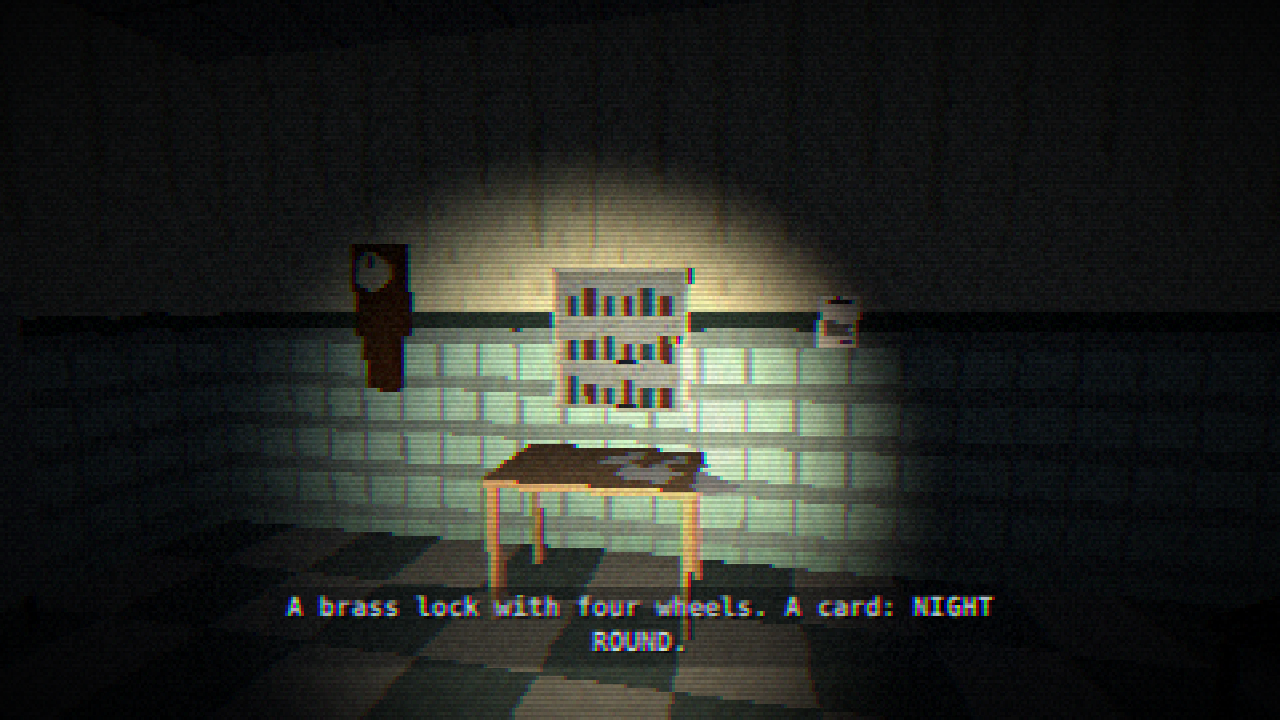
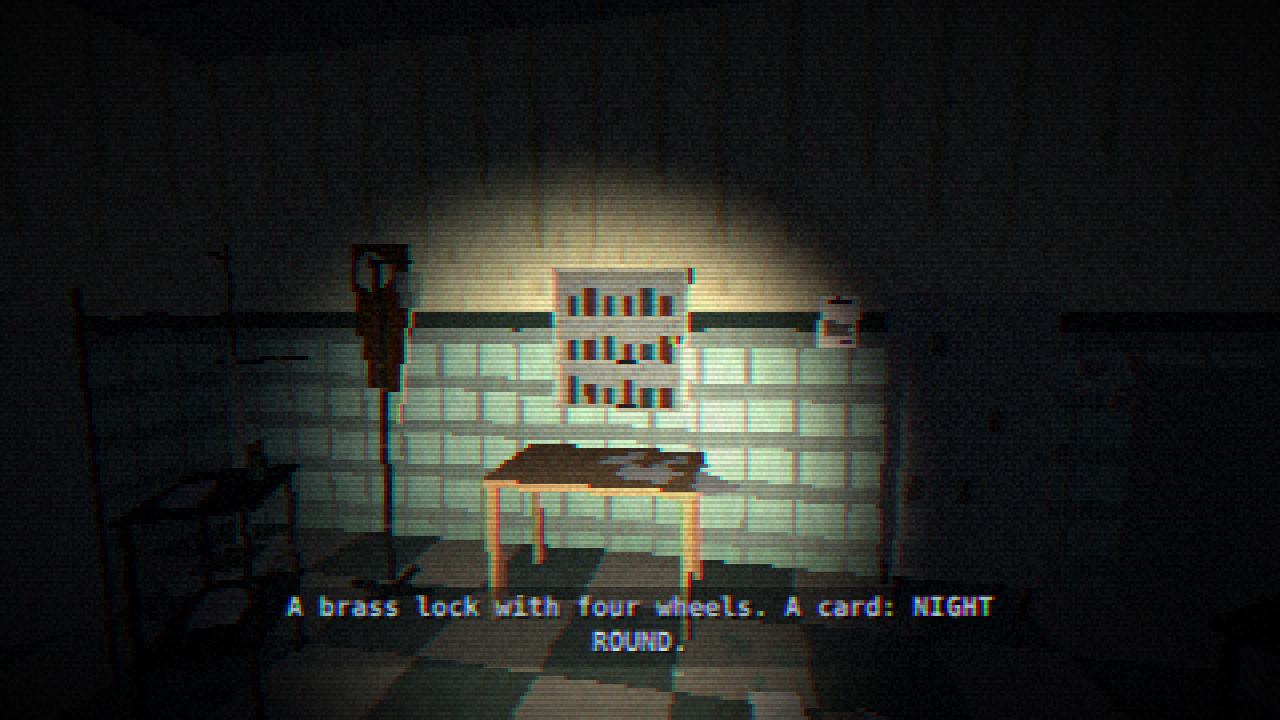
0.2.64: 0.4 room stills filled with clutter and wear; fuse board and television picks recorded
Mockup-only: new props dripStand and stretcher.

Claude-Session: https://claude.ai/code/session_01Kt2ajWcwzg7QhP3mDk3ZUu

diff --git a/src/mockups/wardRoomStills.js b/src/mockups/wardRoomStills.js
@@ -32,6 +32,11 @@ export const WARD_ROOM_STILLS = {
         ['chair', 12, 1.8, 0], ['pigeonholes', 11.3, 1, 0], ['mapBoard', 13.6, 1, 0], ['wallClock', 9.4, 1, 0],
         ['recordsCabinet', 8.25, 2.2, 90], ['recordsCabinet', 8.25, 2.9, 90], ['bench', 8.3, 4.6, 90, { length: 2.2 }],
         ['barredWindow', 16, 2.4, -90], ['barredWindow', 16, 4.4, -90], ['papers', 12.6, 3.4, 0],
+        // left behind
+        ['typewriter', 12.3, 2.55, 185, {}, 0.79], ['papers', 11.2, 3.5, 40, { count: 7 }], ['papers', 13.3, 2.9, 110, { count: 5 }], ['papers', 10.2, 2.4, 0, { count: 6 }],
+        ['chair', 11.3, 3.7, 70, { toppled: true }], ['ledger', 12.9, 3.6, 60], ['ledger', 10.9, 2.9, 200, { color: '#2a3a4a' }],
+        ['crucifix', 12.5, 1, 0, { height: 2.3 }], ['noticeBoard', 10, 1, 0], ['peeledPaper', 14.9, 1, 0, { seed: 2 }], ['peeledPaper', 8.9, 1, 0, { seed: 7 }],
+        ['hatStand', 15.5, 1.5, 0], ['umbrellaStand', 15.6, 5.5, 0], ['stretcher', 14.6, 4.2, 20], ['sheetPile', 13.6, 4.9, 0], ['rug', 12, 2.6, 0, { width: 2.6, depth: 1.8 }],
       ]);
       eye(world, [11.1, 4.5], [12.2, 1.4], 1.6, 1.2);
     },
@@ -44,6 +49,9 @@ export const WARD_ROOM_STILLS = {
       furnish(world, [
         ['fuseBoard', 3, 7, 0, { fuses: [3] }], ['hangingBulb', 3, 8.6, 0, { ceiling: 3.4 }],
         ['bucketMop', 1.5, 7.5, 30], ['linenShelves', 4.98, 8.4, -90, { length: 1.4, seed: 4 }], ['radiator', 1.02, 9, 90], ['puddle', 2.4, 9.3, 0],
+        ['handprints', 1.9, 7, 0], ['wallScratches', 4.2, 7, 0, { seed: 6 }], ['peeledPaper', 1.02, 8.2, 90, { seed: 3 }],
+        ['papers', 3.4, 8.2, 30, { count: 5 }], ['chair', 4.2, 8.9, 250, { toppled: true }], ['laundryBasket', 1.6, 8.6, 0], ['fallenTiles', 3.9, 7.4, 0, { seed: 2 }],
+        ['tileDecay', 4.1, 7, 0, { width: 1.0, height: 0.8, y: 0.7, seed: 8 }], ['trolley', 2.1, 7.6, 100],
       ]);
       eye(world, [3.3, 9.6], [3, 7], 1.6, 1.45);
     },
@@ -57,6 +65,10 @@ export const WARD_ROOM_STILLS = {
         ['bathtub', 2.3, 13.5, 0], ['bathtub', 4.9, 13.5, 0], ['floorDrain', 3.7, 15, 0], ['duckboard', 3.6, 14.3, 0],
         ['towelRail', 1.02, 15, 90], ['sink', 6.98, 14.2, -90], ['mirror', 6.98, 14.2, -90], ['puddle', 3.2, 15.3, 0, { width: 1.3, depth: 0.8 }],
         ['hangingBulb', 3.7, 14.8, 0, { ceiling: 3.4 }], ['bucketMop', 6.5, 16.5, 200],
+        ['wheelchair', 3.6, 14.0, 170], ['dripStand', 5.9, 13.6, 0], ['laundryBasket', 1.5, 14.2, 0], ['sheetPile', 2.6, 15.0, 0],
+        ['tileDecay', 3.6, 13, 0, { width: 1.8, height: 1.3, y: 1.7, seed: 4 }], ['tileDecay', 5.6, 13, 0, { width: 1.2, height: 0.9, y: 0.9, seed: 9 }],
+        ['fallenTiles', 3.7, 13.5, 0, { seed: 3 }], ['fallenTiles', 5.5, 14.4, 0, { seed: 6 }], ['handprints', 1.9, 13, 0], ['towelRail', 3.6, 13, 0, { count: 2 }],
+        ['chair', 4.6, 15.4, 30, { toppled: true }], ['puddle', 4.7, 14.6, 0],
       ]);
       eye(world, [3.9, 16.7], [3.5, 13.4], 1.6, 0.95);
     },
@@ -69,6 +81,9 @@ export const WARD_ROOM_STILLS = {
         ['medicineCabinet', 3.6, 1, 0], ['notice', 4.7, 1, 0], ['table', 3.6, 1.45, 0], ['papers', 3.9, 1.5, 0, {}, 0.76],
         ['cabinet', 1.2, 2.4, 90], ['cabinet', 1.2, 3.2, 90], ['trolley', 5.4, 2.6, 30], ['sink', 6.98, 3.6, -90],
         ['wallClock', 2.2, 1, 0], ['chair', 5.2, 4.3, 200, { toppled: true }],
+        ['cabinet', 5.2, 1.2, 0], ['recordsCabinet', 6.2, 1.25, 0, { lock: false }], ['dripStand', 2.6, 1.6, 0], ['scales', 1.6, 1.5, 30],
+        ['papers', 3.1, 2.6, 60, { count: 6 }], ['papers', 4.6, 2.2, 10, { count: 4 }], ['fallenTiles', 4.2, 1.7, 0, { seed: 4 }],
+        ['peeledPaper', 5.9, 1, 0, { seed: 4 }], ['foldingScreen', 1.7, 3.0, 70], ['trolley', 2.5, 2.3, 300], ['puddle', 4.4, 2.9, 0, { width: 0.7, depth: 0.5 }],
       ]);
       eye(world, [4.2, 3.7], [3.7, 1], 1.6, 1.3);
     },
@@ -84,6 +99,9 @@ export const WARD_ROOM_STILLS = {
         ['armchair', 11.5, 3.1, 125], ['armchair', 12.5, 3.7, 165], ['armchair', 13.7, 3.5, 200], ['armchair', 14.9, 2.4, 250],
         ['sideTable', 10.6, 2.2, 0], ['radioSet', 10.6, 2.2, 150, { lit: false }, 0.6], ['wheelchair', 14.6, 4.6, 200],
         ['barredWindow', 10.5, 1, 0], ['barredWindow', 12.6, 1, 0], ['wallClock', 8.02, 3.2, 90],
+        ['bookshelf', 15.98, 3.4, -90, { length: 2, seed: 5 }], ['radiator', 11.6, 1.06, 0, { width: 1.4 }], ['table', 9.4, 3.2, 20], ['chair', 9.2, 2.5, 10], ['chair', 9.9, 3.9, 200, { toppled: true }],
+        ['papers', 9.4, 3.2, 0, { count: 5 }, 0.76], ['papers', 12.9, 4.4, 80, { count: 6 }], ['tinPlate', 10.6, 2.2, 0, {}, 0.6], ['blocks', 12, 2.6, 0],
+        ['saintPicture', 14.4, 1, 0], ['peeledPaper', 9, 1, 0, { seed: 9 }], ['sheetPile', 14.2, 3.0, 0], ['hatStand', 15.4, 5.4, 0],
       ]);
       eye(world, [11.3, 5.5], [13, 1.9], 1.6, 0.95);
     },
@@ -98,6 +116,10 @@ export const WARD_ROOM_STILLS = {
         bed(5, 6.15, 1.7, -90), bed(6, 6.15, 2.8, -90), bed(7, 6.15, 3.9, -90),
         ['barredWindow', 3, 1, 0, { width: 0.9, height: 1.5 }], ['barredWindow', 5, 1, 0, { width: 0.9, height: 1.5 }],
         ['toyBox', 4, 1.4, 0], ['childChair', 3.3, 2.2, 40], ['hangingBulb', 4, 3.2, 0, { ceiling: 3.4 }],
+        ['bedsideCupboard', 1.3, 2.25, 90], ['bedsideCupboard', 1.3, 3.35, 90], ['bedsideCupboard', 6.7, 2.25, -90], ['bedsideCupboard', 6.7, 3.35, -90],
+        ['shoes', 2.5, 1.9, 80], ['shoes', 5.5, 2.9, -100, { colour: '#4a2a20' }], ['teddy', 6.45, 1.7, -90, {}, 0.5, 0.8], ['toyTrain', 3.6, 3.3, 30], ['blocks', 4.6, 2.5, 0],
+        ['drawing', 2.1, 1, 0, { kind: 'house' }], ['drawing', 4, 1, 0, { kind: 'sun' }], ['drawing', 5.9, 1, 0, { kind: 'house' }], ['crucifix', 4, 1, 0, { height: 2.9 }],
+        ['clothes', 3.3, 2.2, 40, { hung: true }], ['sheetPile', 2.9, 5.1, 0], ['washstand', 6.9, 5.1, -90], ['foldingScreen', 5.2, 5.2, 20], ['papers', 4.2, 4.4, 50, { count: 4 }],
         ['ghostEdith', 5.75, 3.9, -90, { opacity: 0.55 }, 0.48],
       ]);
       const pale = new THREE.PointLight('#9fb4dc', 1.6, 3.5, 1.3);

diff --git a/src/props/wardRooms.js b/src/props/wardRooms.js
@@ -133,4 +133,35 @@ function callBoard(t, { beds = 8, dropped = 7 } = {}) {
   return group(...parts, bell);
 }
 
-export const WARD_ROOM_PROPS = { fuseBoard, television, pigeonholes, callBoard };
+// A drip stand on a tripod foot, an empty glass bottle hung from its hook.
+function dripStand(t) {
+  const steel = { color: '#a8aca6' };
+  return group(
+    box(t.iron, [0.025, 1.85, 0.025], [0, 0.03, 0], steel),
+    box(t.iron, [0.5, 0.03, 0.04], [0, 0, 0], steel),
+    box(t.iron, [0.04, 0.03, 0.5], [0, 0, 0], steel),
+    box(t.iron, [0.22, 0.02, 0.02], [0.1, 1.86, 0], steel),
+    box(t.sheet, [0.08, 0.2, 0.08], [0.19, 1.62, 0], { color: '#8aa0a0', transparent: true, opacity: 0.6 }),
+    strut(t.sheet, [0.19, 1.62, 0], [0.12, 1.0, 0.05], [0.008, 0.008], { color: '#b8a878' }),
+  );
+}
+
+// A wheeled stretcher, 1.9 m long (along z): a thin mattress, a sheet thrown
+// half off it, a strap hanging.
+function stretcher(t) {
+  const steel = { color: '#9a9e98' };
+  const legs = [[-0.3, -0.8], [0.3, -0.8], [-0.3, 0.8], [0.3, 0.8]].map(([x, z]) => box(t.iron, [0.03, 0.72, 0.03], [x, 0.06, z], steel));
+  const wheels = [[-0.3, -0.8], [0.3, -0.8], [-0.3, 0.8], [0.3, 0.8]].map(([x, z]) => box(t.iron, [0.04, 0.08, 0.08], [x, 0, z], { color: '#1e1e20' }));
+  const sheet = box(t.sheet, [0.5, 0.5, 0.02], [0.36, 0.34, 0.2], { color: '#b8b4a4' });
+  sheet.rotation.z = 0.12;
+  return group(
+    ...legs, ...wheels,
+    box(t.iron, [0.66, 0.03, 1.9], [0, 0.78, 0], steel),
+    box(t.mattress, [0.62, 0.07, 1.84], [0, 0.81, 0]),
+    box(t.sheet, [0.66, 0.02, 0.9], [0.04, 0.88, 0.3], { color: '#b8b4a4' }),
+    sheet,
+    box(t.sheet, [0.05, 0.4, 0.012], [-0.34, 0.44, -0.3], { color: '#4a3020' }),
+  );
+}
+
+export const WARD_ROOM_PROPS = { fuseBoard, television, pigeonholes, callBoard, dripStand, stretcher };

diff --git a/CHANGELOG.md b/CHANGELOG.md
@@ -2,6 +2,7 @@
 
 Newest first. One line per change.
 
+- 0.2.64 — 0.4 room stills filled out after the owner's note (too empty): papers, toppled chairs, a stretcher, drip stands, fallen tiles, peeled paint, toys and shoes. Fuse board and television picks written down. Nothing in the game changes.
 - 0.2.63 — 0.4 stills of the ground floor rooms: admissions, the fuse room, the baths, the dispensary, the day room with its television, the children's ward with Edith. Nothing in the game changes.
 - 0.2.62 — 0.4: the owner's answers to the content sheet's open questions are written down, and the wing 3 sound list (31 new sounds, three priorities) is ready for the owner. Nothing in the game changes.
 - 0.2.61 — 0.4: Sister M.'s look is approved, and the wing 3 content sheet (every document, line, code and set piece, English and Greek) is written for the owner to check. Nothing in the game changes.

diff --git a/docs/DESIGN_0.4.md b/docs/DESIGN_0.4.md
@@ -104,6 +104,12 @@ sheet is still the owner's to tick.
 (`src/mockups/wardRoomStills.js`, furnished in the empty mock level `levels/wardRooms.json`). New
 props in `src/props/wardRooms.js`: fuseBoard, television, pigeonholes, callBoard.
 
+Owner's answers on them (2026-11-15): the rooms were **too empty**, so each got clutter and wear
+(papers, toppled chairs, a stretcher, drip stands, fallen tiles, peeled paint, handprints, toys and
+shoes in the children's ward; props dripStand and stretcher are new): build the rooms this full.
+**The fuse board opens a close-up screen** (E at the board, click a socket), like the piano and the
+code locks. **The television is dead until the camcorder is taken,** then on by itself.
+
 ## Next
 The owner's checklist on the content sheet and the priority 1 sounds; stills
 for part A's rooms, then build A, B, C in that order with the bot route per part.
